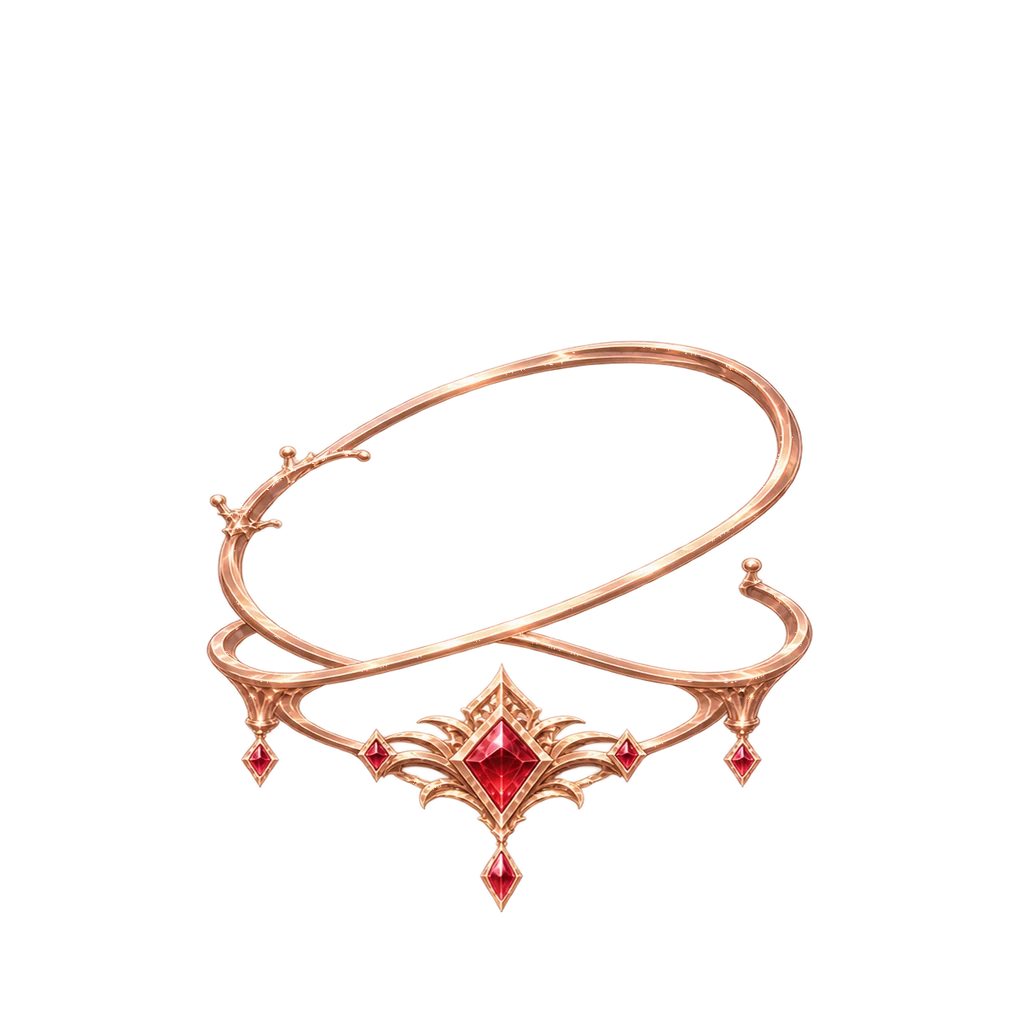
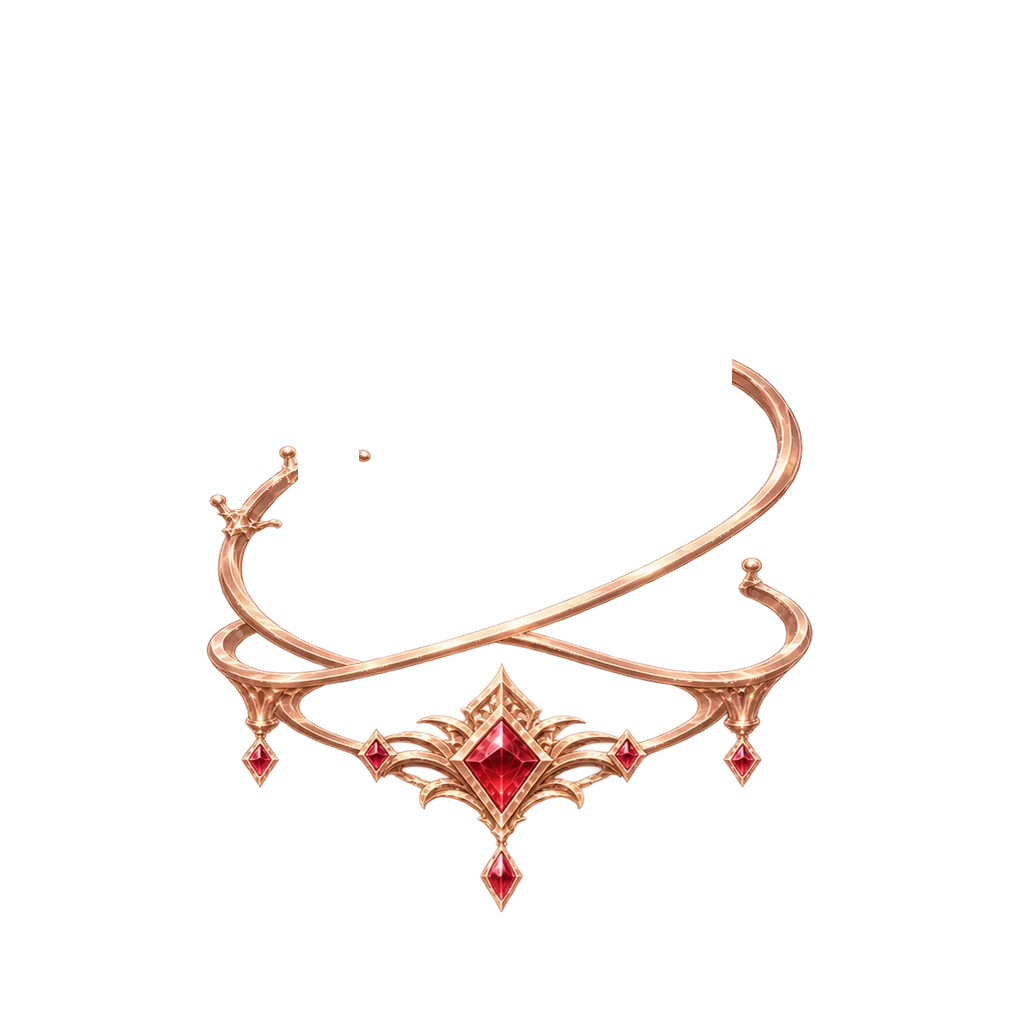
Put the far half of the cradle ring behind the egg
The tilted ring was entirely in cradle-front, so its back arc was drawn
over the egg. Split it out into cradle-ring-back.webp (between the
cradle back and the egg); the original front layer is kept as
cradle-front-original.webp.

Claude-Session: https://claude.ai/code/session_01NLB8Ssvei4U4fKP5grVSnL

Changed region(s): [[0.2812, 0.3125, 0.7188, 0.4688]]

diff --git a/js/egg-view.js b/js/egg-view.js
@@ -47,11 +47,13 @@ export function createIncubator() {
   const el = div('incubator');
   const halo = div('incubator__halo');
   const back = layerImg('incubator__layer incubator__layer--cradle', incubatorSources('cradle-back'));
+  // 環的後半圈（在蛋後面）：從前景環拆出來，蛋才會像放在環的中間
+  const ringBack = layerImg('incubator__layer incubator__layer--cradle', incubatorSources('cradle-ring-back'));
   const slot = div('incubator__slot');
   const front = layerImg('incubator__layer incubator__layer--cradle', incubatorSources('cradle-front'));
   const ring = div('incubator__ring');
   const flare = div('incubator__flare');
-  el.append(halo, back, slot, front, ring, flare);
+  el.append(halo, back, ringBack, slot, front, ring, flare);
 
   return {
     el,
